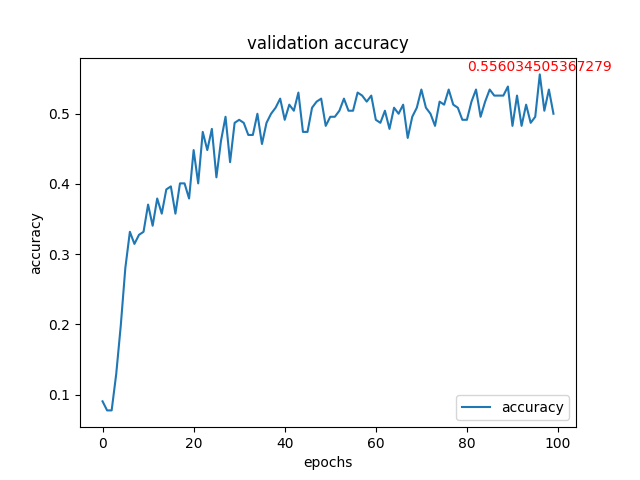
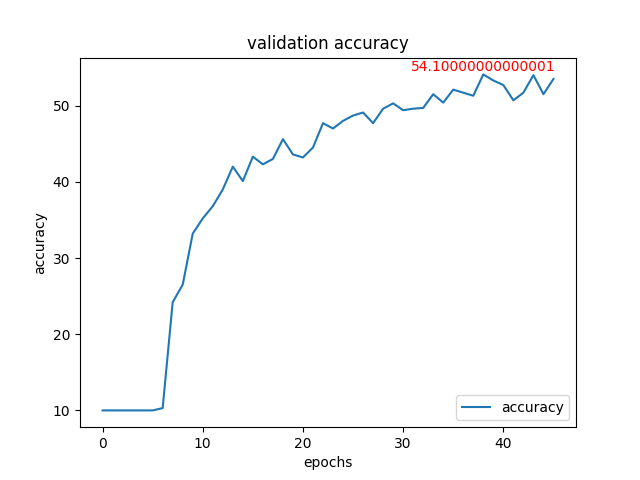
chainges

diff --git a/main.py b/main.py
@@ -20,15 +20,17 @@ from plotgraph import plotgraph
 
 ### parameters
 model_name = "AlexNet"
-lr = 1e-5
-momentum = 0 # 0.9
-weight_dacay = 0 # 0.0005
-batch_size = 256
-epochs = 100
-path = "D:/projects"
+lr = 1e-4
+# momentum = 0 # 0.9
+# weight_dacay = 0 # 0.0005
+batch_size = 256 #32
+epochs = 1000
+earlystop = 7  # for early stopping
+# path = "D:/projects"
+path = os.path.dirname(os.getcwd()) # "D:/projects"
 datapath = path + '/dataset'
 resultpath = path + "/" + model_name + "/results"
-modelpath = path + "/" + model_name + "/models/" + model_name + "_best_model.h"
+modelpath = path + "/" + model_name + "/models"
 if not os.path.exists(resultpath):
     os.mkdir(resultpath)
 if not os.path.exists(modelpath):
@@ -89,7 +91,7 @@ for train_index, val_index in sss.split(indices, y_train0):
 from torch.utils.data import Subset
 val_set = Subset(train_set, val_index)
 train_set = Subset(train_set, train_index)
-print(len(train_set), len(val_set))
+# print(len(train_set), len(val_set))
 # count the number of images per calss in train_set and val_set
 # import collections
 # y_train = [y for _, y in train_set]
@@ -115,11 +117,11 @@ val_loader = DataLoader(val_set, batch_size=batch_size, shuffle=False)
 
 
 ### bring model from model.py
-model = AlexNet()
+model = AlexNet(num_classes=10)
 # model to cuda if available
 model.to(device)
 # print("model set to",next(model.parameters()).device)
-# check model summary
+# # check model summary
 # summary(model, input_size=(3, 227, 227))
 
 
@@ -127,17 +129,18 @@ model.to(device)
 criterion = nn.CrossEntropyLoss().to(device)
 optimizer = optim.Adam(model.parameters(), lr = lr)
 # optimizer = optim.SGD(model.parameters(), lr = lr, momentum=momentum, weight_decay=weight_dacay)
-lr_sche = optim.lr_scheduler.StepLR(optimizer, step_size=5, gamma=0.5)
+# lr_scheduler = optim.lr_scheduler.StepLR(optimizer, step_size=50, gamma=0.9)
+lr_scheduler = optim.lr_scheduler.ReduceLROnPlateau(optimizer, mode="min", patience=5, factor=0.5)
 
 ### training function with validation per epoch
 def train():
     loss_list, valloss_list, valacc_list = [], [], []  # for ploting graph
-    es = 5  # for early stopping
+    best_acc = 0
     for epoch in range(epochs):
-        print("learning_rate:", lr)
+        for param_group in optimizer.param_groups:
+            current_lr =  param_group['lr']
         model.train()
-        avg_loss, val_loss = 0, 0
-        best_acc = 0
+        avg_loss, val_loss, val_acc = 0, 0, 0
         for i, (x, y) in enumerate(train_loader):
             x, y = x.to(device), y.to(device)
             
@@ -151,8 +154,7 @@ def train():
             loss.backward()
             optimizer.step()
 
-            avg_loss += loss
-        avg_loss = avg_loss/len(train_loader)  # calculate average loss per epoch
+            avg_loss += loss/len(train_set)  # calculate average loss per epoch
 
         ### validation
         model.eval()
@@ -161,30 +163,40 @@ def train():
                 x, y = x.to(device), y.to(device)
 
                 prediction = model(x)
-                # calculate validation Loss
-                val_loss += criterion(prediction, y) / len(val_loader)
-                # calculate validation Accuracy
-                correct = prediction.max(1)[1] == y
-                val_acc = correct.float().mean()
 
-                # Early Stop
-                if val_acc > best_acc:
-                    best_acc = val_acc
-                    es = 5
-                    torch.save(model.state_dict(), modelpath)
-                else: 
-                    es -= 1
-                if es == 0: 
-                    model.load_state_dict(torch.load(modelpath))
-                    break
-            
-            # for plotting graph
-            loss_list.append(avg_loss.item())
-            valloss_list.append(val_loss.item())
-            valacc_list.append(val_acc.item())
-        print(datetime.now().time().replace(microsecond=0), "EPOCHS: [{}/{}], avg_loss: [{:.4f}], val_acc: [{:.2f}%]".format(
-                epoch+1, epochs, avg_loss.item(), val_acc.item()*100))
+                # calculate validation Loss
+                val_loss += criterion(prediction, y) / len(val_set)
+
+                # calculate validation Accuracy
+                val_acc += (prediction.max(1)[1] == y).sum().item() * 100 / len(val_set)
+
+        # print loss, acc
+        print(datetime.now().time().replace(microsecond=0), "EPOCHS: [{}], current_lr: [{}], avg_loss: [{:.4f}], val_loss: [{:.4f}], val_acc: [{:.2f}%]".format(
+                epoch+1, current_lr, avg_loss.item(), val_loss.item(), val_acc))
+
+        # append list and plot graph
+        loss_list.append(avg_loss.item())
+        valloss_list.append(val_loss.item())
+        valacc_list.append(val_acc)
         plotgraph(loss_list=loss_list, valloss_list=valloss_list, valacc_list=valacc_list, path = resultpath)
+
+        # Early Stop
+        if val_acc > best_acc:
+            best_acc = val_acc
+            es = earlystop
+            torch.save(model.state_dict(), modelpath + "/" + model_name + "_best_model.h")
+        else: 
+            es -= 1
+        if es == 0: 
+            # model.load_state_dict(torch.load(modelpath + "/" + model_name + "_best_model.h"))
+            print("Early Stopped and saved model")
+            break
+
+        # learning rate scheduler
+        # lr_scheduler.step()
+        lr_scheduler.step(val_loss)
+
+    print("finished training")
 
 # train
 print("start training")

diff --git a/test.py b/test.py
@@ -5,13 +5,19 @@ from torch.utils.data import DataLoader
 
 from model import AlexNet
 
+import os
+import argparse
 
+parser = argparse.ArgumentParser(description="parameters")
+parser.add_argument("--model", default="Alexnet_best_model.h")
+args = parser.parse_args()
 
 ### parameters
 model_name = "AlexNet"
-path = "D:/projects"
+# path = "D:/projects"
+path = os.path.dirname(os.getcwd()) # "D:/projects"
 datapath = path + '/dataset'
-modelpath = path + "/" + model_name + "/models/" + model_name + "_best_model.h"
+modelpath = path + "/" + model_name + "/models/" + args.model
 batch_size = 32
 
 ### 사용 가능한 gpu 확인 및 설정
@@ -56,7 +62,7 @@ model.to(device)
 def test():
     model.load_state_dict(torch.load(modelpath))
     model.eval()
-    avg_loss = 0
+    test_acc = 0
     with torch.no_grad():
         correct = 0
         total = 0
@@ -65,10 +71,10 @@ def test():
 
             # 순전파
             prediction = model(x)
-            correct = prediction.max(1)[1] == y
-            test_acc = correct.float().mean()
+            test_acc += (prediction.max(1)[1] == y).sum().item() * 100 / len(test_set)
+
     print("Acc: [{:.2f}%]".format(
-        test_acc*100
+        test_acc
     ))
 
 

diff --git a/model.py b/model.py
@@ -1,8 +1,7 @@
 import torch.nn as nn
-import torch.nn.functional as F
 
 class AlexNet(nn.Module):
-    def __init__(self, num_classes=20):
+    def __init__(self, num_classes=10):
         super(AlexNet, self).__init__()
         self.feature_extractor = nn.Sequential(
             nn.Conv2d(3, 96, kernel_size=11, stride=4, padding=0), # (b x 96 x 55 x 55)
